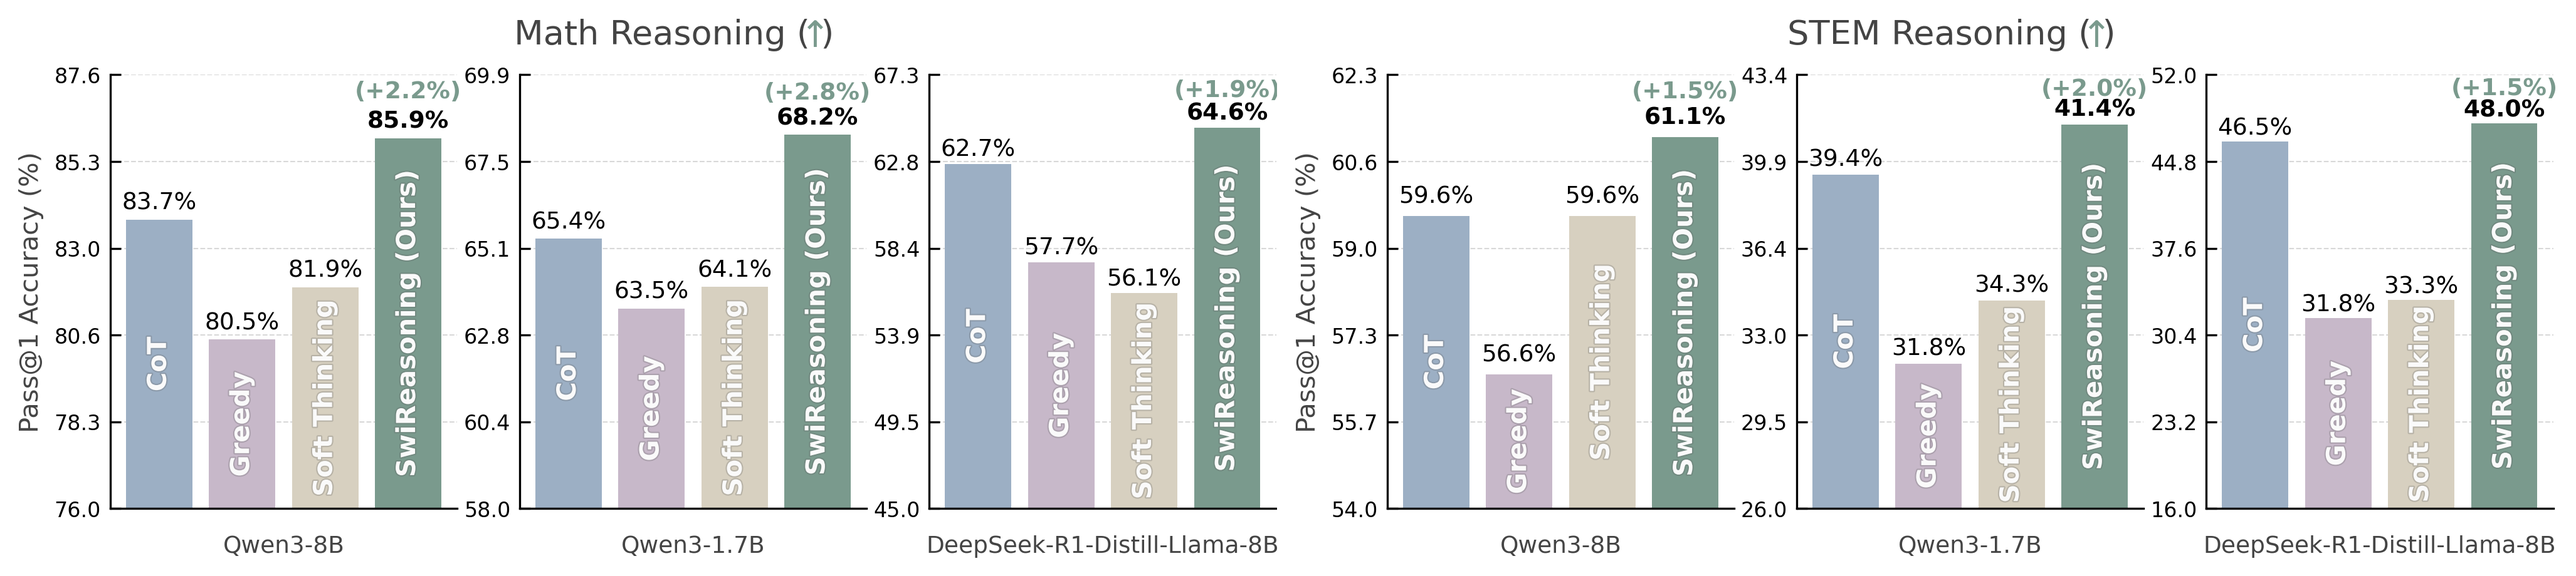
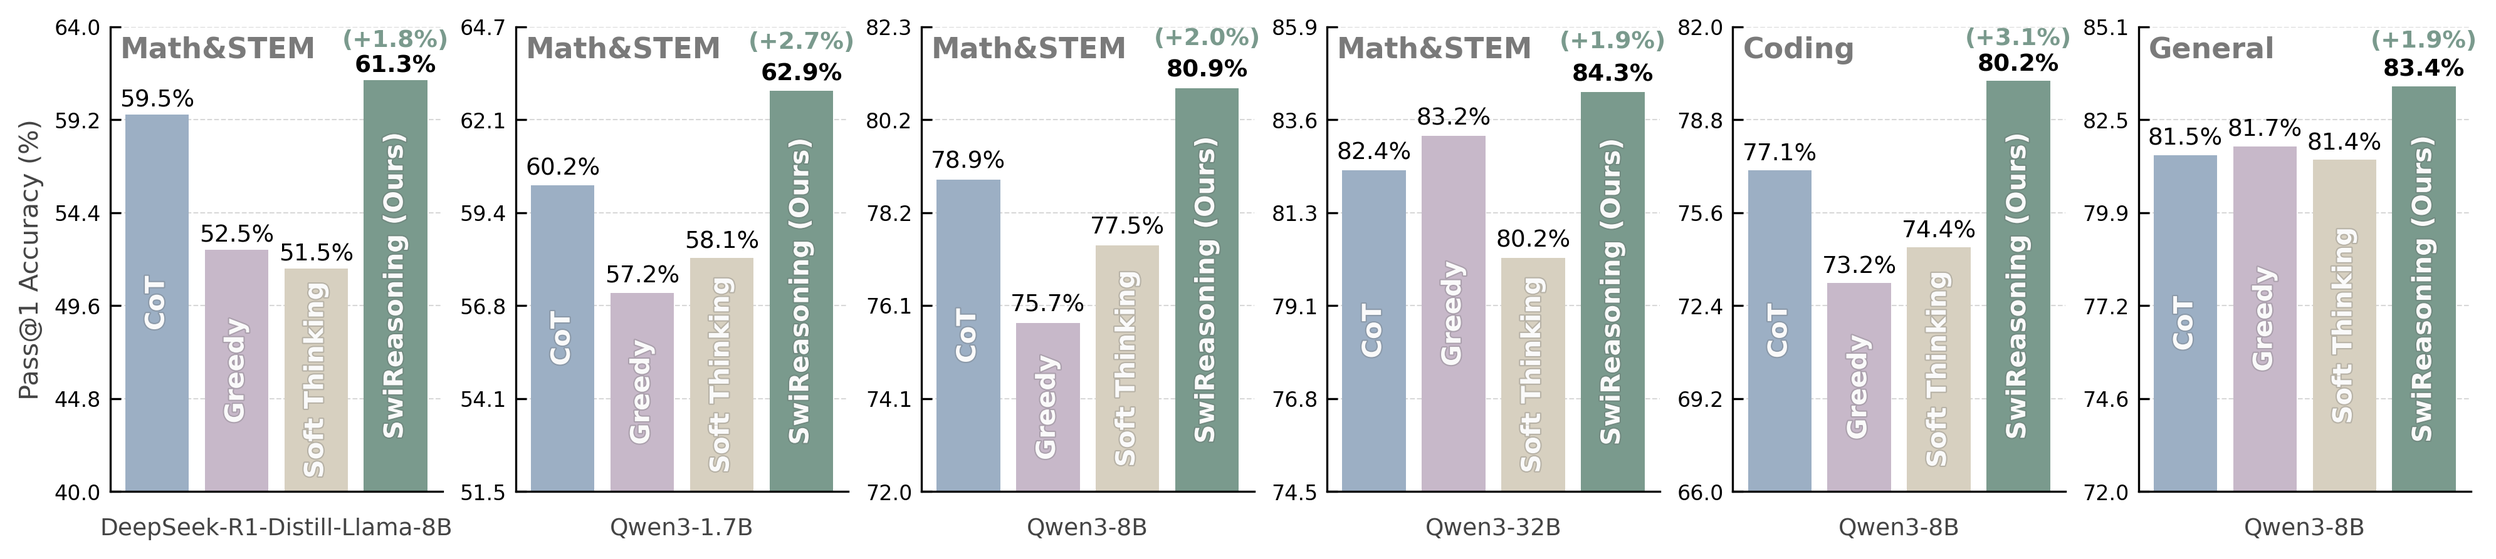
update

Changed region(s): [[0.0, 0.0302, 0.9965, 0.9675]]

diff --git a/index.html b/index.html
@@ -141,15 +141,16 @@
       <h2 class="subtitle has-text-centered" 
           style="font-family: Consolas, monospace; font-size: 15px; line-height: 1.4; max-width: 97%; margin: 0.3em auto 0 auto;">
         <b>Figure 1:</b> Pass@1 <b>accuracy</b> under unlimited token budgets. 
-        On mathematics and STEM reasoning benchmarks, 
+        Across the Math&STEM, Coding, and General reasoning benchmarks,
         <span style="
               background: linear-gradient(90deg, #7A9A8D, #2e7bb3, #5bc0de); 
               -webkit-background-clip: text; 
               -webkit-text-fill-color: transparent;
               font-weight: bold;">
-              SwiReasoning</span> yields improvements of up to 
-        <span style="color: #7A9A8D; font-weight: bold;">+2.8%</span> and 
-        <span style="color: #7A9A8D; font-weight: bold;">+2.0%</span>, respectively.
+              SwiReasoning</span> yields average gains of 
+        <span style="color: #7A9A8D; font-weight: bold;">+2.1%</span>,
+        <span style="color: #7A9A8D; font-weight: bold;">+3.1%</span>, and 
+        <span style="color: #7A9A8D; font-weight: bold;">+1.9%</span>, respectively.
       </h2>
     </div>
   </div>
@@ -255,17 +256,17 @@
               -webkit-background-clip: text; 
               -webkit-text-fill-color: transparent;
               font-weight: bold;">
-              SwiReasoning</span> curbs overthinking and improves token efficiency across varying problem difficulties. On widely used mathematics and STEM benchmarks, <span style="
+              SwiReasoning</span> curbs overthinking and improves token efficiency across varying problem difficulties. On widely used mathematics, STEM, coding, and general benchmarks, <span style="
               background: linear-gradient(90deg, #7A9A8D, #2e7bb3, #5bc0de); 
               -webkit-background-clip: text; 
               -webkit-text-fill-color: transparent;
               font-weight: bold;">
-              SwiReasoning</span> consistently improves average accuracy by 1.5%–2.8% across reasoning LLMs of different model families and scales. Furthermore, under constrained budgets, <span style="
+              SwiReasoning</span> consistently improves average accuracy by 1.8%–3.1% across reasoning LLMs of different model families and scales. Furthermore, under constrained budgets, <span style="
               background: linear-gradient(90deg, #7A9A8D, #2e7bb3, #5bc0de); 
               -webkit-background-clip: text; 
               -webkit-text-fill-color: transparent;
               font-weight: bold;">
-              SwiReasoning</span> improves average token efficiency by 56%-79%, with larger gains as budgets tighten.
+              SwiReasoning</span> improves average token efficiency by 57%-79%, with larger gains as budgets tighten.
           </p>
         </div>
       </div>
